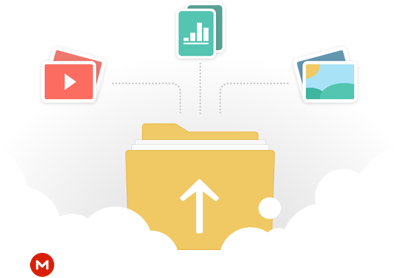
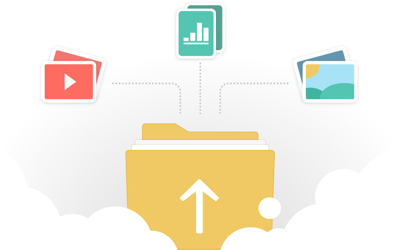
Replace old sprite sheet with smaller PUF only one. Update css

diff --git a/css/embeddrop.css b/css/embeddrop.css
@@ -23,28 +23,23 @@
     cursor: pointer;
 }
 .embed-button.light-theme {
-    background: #ffffff;
-    background-image: linear-gradient(
-        -180deg,
-        rgba(255, 255, 255, 0) 0%,
-        rgba(246, 246, 246, 0.5) 100%
-    );
-    border: 1px solid rgba(0, 0, 0, 0.05);
-    box-shadow: 0 1px 2px 0 rgba(0, 0, 0, 0.1);
-    -webkit-transition: all 0.5s ease-out;
-    -moz-transition: all 0.5s ease-out;
-    -o-transition: all 0.5s ease-out;
-    transition: all 0.5s ease-out;
+    background: #FFFFFF;
+    background-image: linear-gradient(-180deg, rgba(255,255,255,0.00) 0%, rgba(246,246,246,0.50) 100%);
+    border: 1px solid rgba(0,0,0,0.05);
+    box-shadow: 0 1px 2px 0 rgba(0,0,0,0.10);
+    -webkit-transition: all .5s ease-out;
+    -moz-transition: all .5s ease-out;
+    -o-transition: all .5s ease-out;
+    transition: all .5s ease-out;
 }
 .embed-button.dark-theme {
-    background: #eb4444;
-    border: 1px solid #d90007;
-    box-shadow: 0 1px 2px 0 rgba(0, 0, 0, 0.25),
-        inset 0 -2px 3px 0 rgba(159, 0, 0, 0.12);
-    -webkit-transition: all 0.5s ease-out;
-    -moz-transition: all 0.5s ease-out;
-    -o-transition: all 0.5s ease-out;
-    transition: all 0.5s ease-out;
+    background-color: #ff3333;
+    border: 1px solid #D90007;
+    box-shadow: 0 1px 2px 0 rgba(0,0,0,0.25), inset 0 -2px 3px 0 rgba(159,0,0,0.12);
+    -webkit-transition: all .5s ease-out;
+    -moz-transition: all .5s ease-out;
+    -o-transition: all .5s ease-out;
+    transition: all .5s ease-out;
 }
 .embed-button.dark-theme .embed-action-text {
     color: #fff;
@@ -53,19 +48,22 @@
     color: #70777b;
 }
 .embed-button.dark-theme:hover {
-    box-shadow: 0 0 0 0 rgba(0, 0, 0, 0);
-    -webkit-transition: all 0.5s ease-out;
-    -moz-transition: all 0.5s ease-out;
-    -o-transition: all 0.5s ease-out;
-    transition: all 0.5s ease-out;
+    background-color: #ff4444;
+    border: 1px solid #D90007;
+    box-shadow: 0 1px 2px 0 rgba(0,0,0,0.25), inset 0 -2px 3px 0 rgba(159,0,0,0.12);
+    -webkit-transition: all .5s ease-out;
+    -moz-transition: all .5s ease-out;
+    -o-transition: all .5s ease-out;
+    transition: all .5s ease-out;
 }
 .embed-button.light-theme:hover {
-    box-shadow: 0 0px 0px 0 rgba(0, 0, 0, 0);
+    box-shadow: 0 0px 0px 0 rgba(0,0,0,0);
+    background-image: linear-gradient(-180deg, rgba(255,255,255,0.00) 0%, rgba(246,246,246,0.25) 100%);
     border: 1px solid #eee;
-    -webkit-transition: all 0.5s ease-out;
-    -moz-transition: all 0.5s ease-out;
-    -o-transition: all 0.5s ease-out;
-    transition: all 0.5s ease-out;
+    -webkit-transition: all .5s ease-out;
+    -moz-transition: all .5s ease-out;
+    -o-transition: all .5s ease-out;
+    transition: all .5s ease-out;
 }
 .embed-button .embed-content-wrapper {
     vertical-align: middle;
@@ -73,13 +71,13 @@
     padding: 0 16px;
 }
 .embed-button .embed-mega-icon {
-    width: 24px;
-    height: 24px;
+    width: 25px;
+    height: 25px;
     display: inline-block;
     vertical-align: middle;
     margin-right: 12px;
-    background-image: url(../images/mega/megadrop-embed-icons-sprite@2x.png);
-    background-size: 262px 1258px;
+    background-image: url(../images/mega/puf-embed-icons@2x.png);
+    background-size:56px auto;
     background-repeat: no-repeat;
 }
 .embed-button .embed-action-text {
@@ -88,10 +86,10 @@
     vertical-align: middle;
 }
 .embed-button.dark-theme .embed-mega-icon {
-    background-position: -173px -1008px;
+    background-position:-2px -2px;
 }
 .embed-button.light-theme .embed-mega-icon {
-    background-position: 0 -1008px;
+    background-position: -29px -2px;
 }
 .embed-button.dark-theme .embed-action-text {
     color: #fff;

diff --git a/css/style.css b/css/style.css
@@ -23232,15 +23232,15 @@ opacity: 1;
     display: inline-block;
     vertical-align: middle;
     margin-right: 12px;
-    background-image: url(../images/mega/wu_empty_upload_v2@2x.png);
-    background-size: 400px auto;
+    background-image: url(../images/mega/puf-embed-icons@2x.png);
+    background-size: 56px auto;
     background-repeat: no-repeat;
 }
 .widget-dialog .embed-button.dark-theme .embed-mega-icon {
-    background-position: -2px -252px;
+    background-position:-2px -2px;
 }
 .widget-dialog .embed-button.light-theme .embed-mega-icon {
-    background-position: -30px -252px;
+    background-position: -29px -2px;
 }
 .widget-dialog .embed-button .embed-action-text {
     font-family: 'source_sans_prosemibold';
